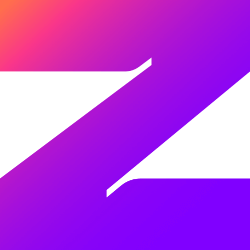
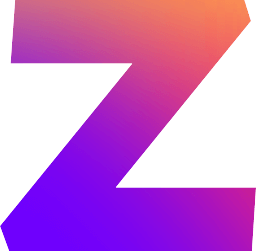
lot of changes I cant name them all

diff --git a/app/components/Dialogs/ActionDialog.tsx b/app/components/Dialogs/ActionDialog.tsx
@@ -75,7 +75,7 @@ export default function ActionDialog({
   const [selectedAccount, setSelectedAccount] = useState(
     account ? account.id : ""
   );
-  // const [isDirty, setDirty] = useState(false);
+  const [isDirty, setDirty] = useState(false);
 
   const campaignItems =
     selectedAccount && campaigns
@@ -106,31 +106,31 @@ export default function ActionDialog({
     }
   }, [isAdding, context, fetcher]);
 
-  // useEffect(() => {
-  //   function getDirty() {
-  //     setDirty(true);
-  //   }
+  useEffect(() => {
+    function getDirty() {
+      setDirty(true);
+    }
 
-  //   window.addEventListener("keydown", getDirty);
-  //   window.addEventListener("mousedown", getDirty);
+    window.addEventListener("keydown", getDirty);
+    window.addEventListener("mousedown", getDirty);
 
-  // if (action) {
-  //   const save = setInterval(() => {
-  //     if (isDirty) {
-  //       fetcher.submit(formRef.current, {
-  //         method: "post",
-  //         action: `/handle-action`,
-  //       });
-  //       setDirty(false);
-  //     }
-  //   }, 5000);
-  //   return () => {
-  //     clearInterval(save);
-  //     window.removeEventListener("keydown", getDirty);
-  //     window.removeEventListener("mousedown", getDirty);
-  //   };
-  // }
-  // }, [action, isDirty, fetcher]);
+    if (action) {
+      const save = setInterval(() => {
+        if (isDirty) {
+          fetcher.submit(formRef.current, {
+            method: "post",
+            action: `/handle-action`,
+          });
+          setDirty(false);
+        }
+      }, 5000);
+      return () => {
+        clearInterval(save);
+        window.removeEventListener("keydown", getDirty);
+        window.removeEventListener("mousedown", getDirty);
+      };
+    }
+  }, [action, isDirty, fetcher]);
   return (
     <>
       <div className="mb-4 flex justify-between">

diff --git a/app/components/Forms/TextareaField.tsx b/app/components/Forms/TextareaField.tsx
@@ -1,4 +1,4 @@
-import { useRef, useState } from "react";
+import { useRef } from "react";
 
 export default function TextareaField({
   label,
@@ -19,13 +19,13 @@ export default function TextareaField({
   onChange?: (value: string) => void;
 }) {
   const inputRef = useRef(null);
-  const [content, setContent] = useState(value);
+  // const [content, setContent] = useState(value);
 
   return (
     <div className="field">
       <label className="field-label">{label}</label>
 
-      {/* <textarea
+      <textarea
         name={name}
         placeholder={placeholder}
         defaultValue={value}
@@ -36,8 +36,8 @@ export default function TextareaField({
         rows={rows}
         ref={inputRef}
         className={`field-default`}
-      /> */}
-      <input
+      />
+      {/* <input
         name={name}
         type="hidden"
         placeholder={placeholder}
@@ -46,8 +46,8 @@ export default function TextareaField({
         // rows={rows}
         ref={inputRef}
         className={`field-default`}
-      />
-      <div
+      /> */}
+      {/* <div
         contentEditable={true}
         className={`field-default`}
         onInput={(e) => {
@@ -55,7 +55,7 @@ export default function TextareaField({
           if (onChange) onChange(content as string);
         }}
         dangerouslySetInnerHTML={{ __html: value ?? "" }}
-      />
+      /> */}
     </div>
   );
 }

diff --git a/app/components/Layout.tsx b/app/components/Layout.tsx
@@ -212,7 +212,11 @@ export default function Layout({ children }: { children: React.ReactNode }) {
             >
               {context.sidebar.open ? (
                 <>
-                  <img src="/logo-color.svg" alt="ZTUDIO" className="h-6" />
+                  <img
+                    src="/ztudio-logo-white.svg"
+                    alt="ZTUDIO"
+                    className="h-6"
+                  />
                 </>
               ) : (
                 <img src="/ico.png" className="mx-auto h-6" alt="ZTUDIO" />

diff --git a/app/routes/login.tsx b/app/routes/login.tsx
@@ -92,7 +92,7 @@ export default function Login() {
       <div className="w-full max-w-3xl grid-cols-2 place-items-center p-8  md:grid">
         <div className="w-full p-8">
           <div className="mb-8 w-32">
-            <img src="/logo-color.svg" alt="ZTUDIO" />
+            <img src="/ztudio-logo-white.svg" alt="ZTUDIO" />
           </div>
 
           <ResizeblePanel duration={0.3}>

diff --git a/app/routes/index.tsx b/app/routes/index.tsx
@@ -8,7 +8,7 @@ export default function Index() {
         <div className="w-96 text-center">
           <div>
             <img
-              src="/logo-color.svg"
+              src="/ztudio-logo-white.svg"
               alt="ZTUDIO"
               className="mx-auto mb-8 w-36"
             />
